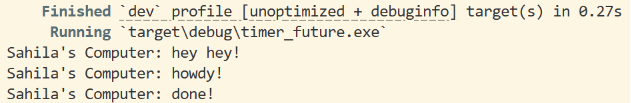
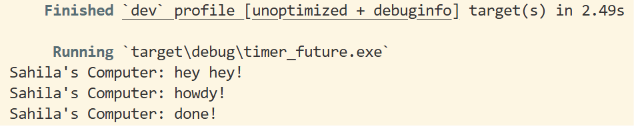
Experiment 1.3: Multiple Spawn and removing drop

Changed region(s): [[0.0, 0.233, 0.6323, 0.8155], [0.0602, 0.0291, 0.9937, 0.2039], [0.0, 0.8447, 0.3613, 1.0]]

diff --git a/src/main.rs b/src/main.rs
@@ -76,6 +76,18 @@ fn main() {
         println!("Sahila's Computer: done!");
     });
 
+    spawner.spawn(async {
+        println!("Sahila's Computer: howdy2!");
+        TimerFuture::new(Duration::new(2, 0)).await;
+        println!("Sahila's Computer: done2!");
+    });
+
+    spawner.spawn(async {
+        println!("Sahila's Computer: howdy3!");
+        TimerFuture::new(Duration::new(2, 0)).await;
+        println!("Sahila's Computer: done3!");
+    });
+
     println!("Sahila's Computer: hey hey!");
 
     drop(spawner);

diff --git a/README.md b/README.md
@@ -16,3 +16,20 @@ Jadi urutan eksekusinya adalah:
    - print `howdy!`
    - tunggu 2 detik (TimerFuture)
    - print `done!`
+
+
+## Experiment 1.3: Multiple Spawn and removing drop
+
+### Output dengan Multiple Spawn
+![Experiment 1.3 1](assets/images/1_3_1.png)
+
+### Output setelah drop(spawner) dihapus
+![Experiment 1.3 1](assets/images/1_3_2.png)
+
+### Explanation
+
+**Spawner** mengirim task ke dalam channel yang dibaca oleh Executor. **Executor** mengambil task dari channel dan menjalankannya (poll). **drop(spawner)** menutup sisi pengirim channel, sehingga Executor tahu bahwa tidak akan ada task baru lagi.
+
+Dengan multiple spawn, ketiga task dijalankan secara concurrent oleh satu executor. Semua `howdy` muncul lebih dulu karena ketiga task langsung dieksekusi sampai titik `.await` (TimerFuture). Saat menunggu timer, executor beralih ke task berikutnya. Setelah ~2 detik, semua timer selesai dan ketiga `done` muncul hampir bersamaan.
+
+Ketika `drop(spawner)` dihapus, channel pengirim tidak pernah ditutup. `executor.run()` menggunakan `ready_queue.recv()` yang akan block selamanya menunggu task baru yang tidak akan datang, sehingga program tidak bisa exit.